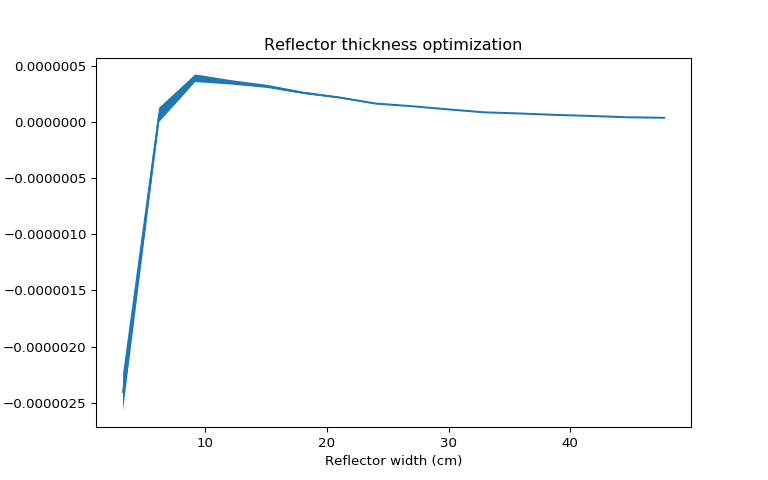
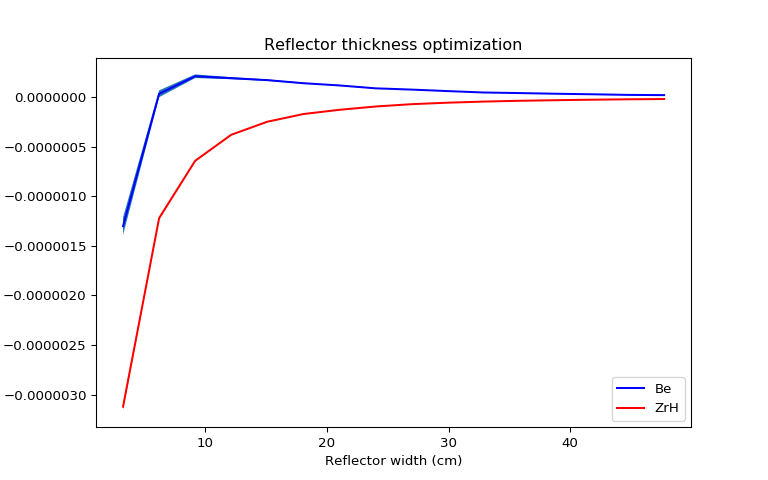
add ZrH comparison

diff --git a/puball/reflOptim/plot.py b/puball/reflOptim/plot.py
@@ -2,20 +2,28 @@
 import matplotlib.pyplot as plt
 import numpy as np
 
-data = np.loadtxt('results.txt')
+data = np.loadtxt('resultsBe.txt')
+data2 = np.loadtxt('resultsZrH.txt')
 nomthick = 8.64 # cm
 
 berylDens = 1.85 # g/ccm
-masses = 4. / 3. * np.pi * (data[:,0]**3 - 8.64**3) # reflector masses
+zrhdens = 5.66 # g /ccm
+masses = 4. / 3. * np.pi * (data[:,0]**3 - 8.64**3) * berylDens # reflector masses
+masseszrh = 4. / 3. * np.pi * (data[:,0]**3 - 8.64**3) * zrhdens
 reac = (data[:,1] - 1.0)  / data[:,1] # reactivity (absolute)
 dreac = data[:,1] * data[:,2] / data[:,1]**2 # uncertainty (serpent gives fractional values)
+reac2 = (data2[:,1] - 1.0)  / data2[:,1] # reactivity (absolute)
+dreac2 = data2[:,1] * data2[:,2] / data2[:,1]**2 # uncertainty (serpent gives fractional values)
 
 fig = plt.figure(figsize=(8, 5), dpi=96)
 ax = fig.add_subplot(111)
-ax.set_title('Reactivity per refl. mass vs. refl. thickness')
+ax.set_title('Reflector thickness optimization')
 ax.set_xlabel('Reflector width (cm)')
 ax.set_ylabel('Reactivity per mass (g$^{-1}$)', usetex=True)
-ax.plot(data[4:,0]-8.64, reac[4:] / masses[4:])
+ax.plot(data[4:,0]-8.64, reac[4:] / masses[4:], 'b')
 ax.fill_between(data[4:, 0]-8.64, (reac[4:]-dreac[4:])/masses[4:], (reac[4:]+dreac[4:])/masses[4:])
+ax.plot(data2[4:,0]-8.64, reac2[4:] / masseszrh[4:], 'r')
+ax.fill_between(data2[4:, 0]-8.64, (reac2[4:]-dreac2[4:])/masseszrh[4:], (reac2[4:]+dreac2[4:])/masseszrh[4:])
+ax.legend(['Be', 'ZrH'])
 
 fig.savefig('reflOptimization.png')

diff --git a/puball/reflOptim/gather.py b/puball/reflOptim/gather.py
@@ -19,7 +19,7 @@ for i in range(20):
                 sigmas.append(sigma)
 
 # write the results:
-with open('results.txt', 'w') as fh:
+with open('resultsZrH.txt', 'w') as fh:
     fh.write('#refl thickness (cm), keff, sigma\n')
     for i in range(20):
         fh.write('{}  {}  {}\n'.format(widths[i]-8.64, keffs[i], sigmas[i]))
